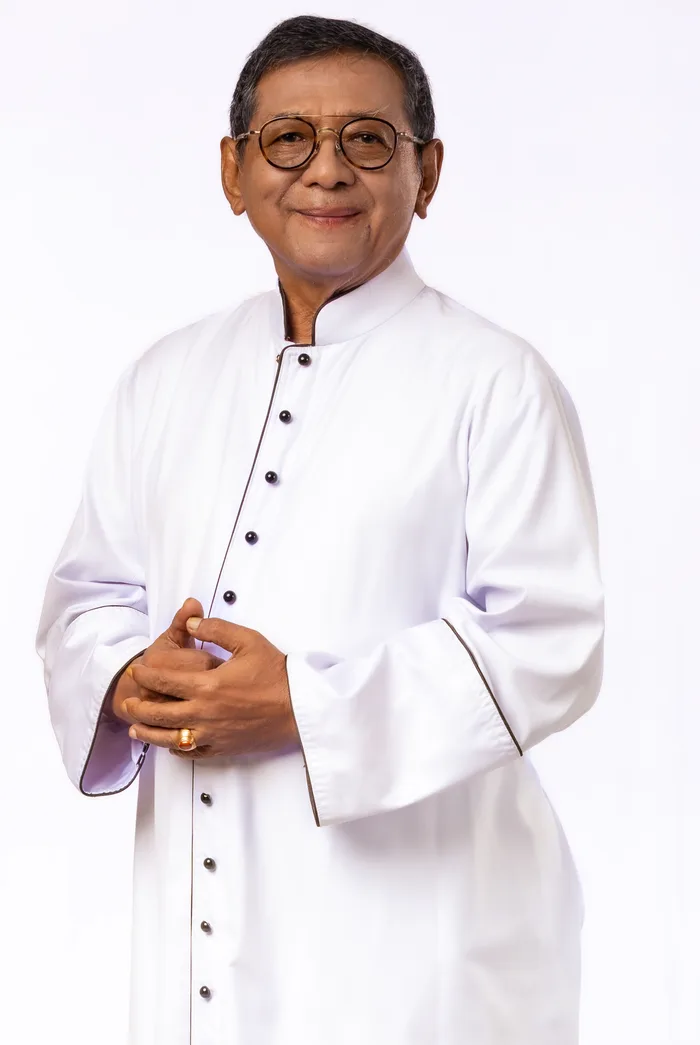
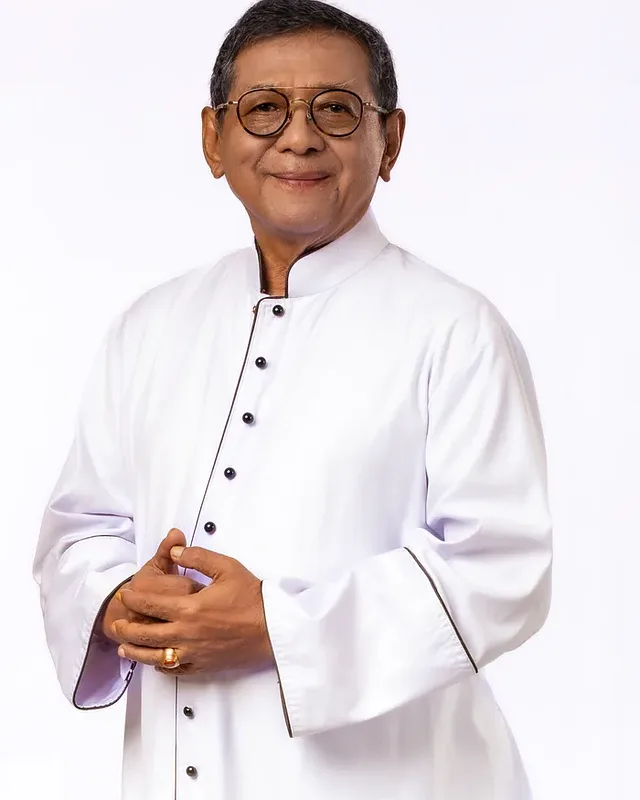
feat(undangan): priest biodata, ayat suci, altar hero & consistent photos
- Add Rm. Yustinus Ardianto biodata & photo
- Add ayat suci (Matius 10:8) after the ribbon, before the invitation
- Fix ribbon motto spelling: Intimeor -> Intimior
- Crop hero to focus on the altar/crucifix instead of the pews
- Replace Romo Yos Bintoro photo; add Mgr. Suharyo & Pak Sonny photos
- Normalize all Romo photos to a fixed 4:5 frame so each is shown at the
  same scale (no priest appears larger than the others)

Changed region(s): [[0.0312, 0.0, 0.875, 1.0], [0.1875, 0.3125, 0.25, 0.4062]]

diff --git a/src/app/(frontend)/undangan/page.tsx b/src/app/(frontend)/undangan/page.tsx
@@ -28,7 +28,6 @@ type Romo = {
   name: string
   date: string
   photo: string
-  objectPosition: string
   birth: string
   parents: string
   career: [string, string][]
@@ -41,7 +40,6 @@ const romos: Romo[] = [
     name: 'Romo Thomas Aquino Rochadi Widagdo, Pr',
     date: '15 Agustus 1986',
     photo: '/romo/thomas-rochadi.webp',
-    objectPosition: 'center 20%',
     birth: 'Kalimundu, Bantul — 15 Mei 1958',
     parents: 'Raden Sebastianus Brotosudibyo & Roro Sebastiana Siti Rochialun',
     career: [
@@ -60,8 +58,7 @@ const romos: Romo[] = [
     years: 40,
     name: 'Romo Yohanes Purbo Tamtomo, Pr',
     date: '15 Agustus 1986',
-    photo: '/romo/yohanes-purbo.jpeg',
-    objectPosition: '68% 18%',
+    photo: '/romo/yohanes-purbo.webp',
     birth: 'Yogyakarta, 1959',
     parents: 'JS Hadisuprapto & Maria Norbentin Praptini',
     career: [
@@ -75,8 +72,7 @@ const romos: Romo[] = [
     years: 30,
     name: 'Romo Aloysius Susilo Wijoyo, Pr',
     date: '15 Agustus 1996',
-    photo: '/romo/aloysius-susilo.jpeg',
-    objectPosition: 'center 25%',
+    photo: '/romo/aloysius-susilo.webp',
     birth: 'Yogyakarta, 11 Februari 1968',
     parents: 'Blasius Supardi KA & Christina Sijam',
     career: [
@@ -93,8 +89,7 @@ const romos: Romo[] = [
     years: 30,
     name: 'Romo Yos Bintoro, Pr',
     date: '15 Agustus 1996',
-    photo: '/romo/yos-bintoro.jpeg',
-    objectPosition: 'center 30%',
+    photo: '/romo/yos-bintoro.webp',
     birth: 'Jakarta, 30 November 1967',
     parents:
       'Kanjeng Raden Tumenggung Rafael Ignatius Martokusumo, SE & Raden Ayu Maria Dolores Mursyanti Suryo Mursandi',
@@ -123,11 +118,22 @@ const romos: Romo[] = [
     years: 25,
     name: 'Romo Yustinus Ardianto, Pr',
     date: '15 Agustus 2001',
-    photo: '',
-    objectPosition: 'center',
-    birth: '',
-    parents: '',
-    career: [],
+    photo: '/romo/yustinus-ardianto.webp',
+    birth: 'Jakarta, 9 Mei 1974',
+    parents: 'Yohanes Doemeri & Maria Laurensia Suwarsiatun',
+    career: [
+      [
+        '2001',
+        'Ditahbiskan menjadi Imam pada 15 Agustus 2001 di Paroki Hati Santa Perawan Maria Tak Bernoda, Tangerang',
+      ],
+      [
+        '2001–2009',
+        'Ketua Komisi KomSos KAK; tinggal di Paroki Bojong Indah dan Paroki Jalan Malang',
+      ],
+      ['2009–2012', 'Studi di Ateneo de Manila University, Filipina'],
+      ['2012–2017', 'Pastor Paroki Kalvari, Lubang Buaya'],
+      ['2017–sekarang', 'Direktur Pusat Pastoral Samadi'],
+    ],
   },
 ]
 
@@ -216,8 +222,24 @@ export default function UndanganPage() {
       >
         {/* Ribbon (motto) */}
         <div className="relative">
-          <Ribbon lightText="Deus Intimeor Intimo Meo" darkText="Deus Intimeor Intimo Tuo" />
+          <Ribbon lightText="Deus Intimior Intimo Meo" darkText="Deus Intimior Intimo Tuo" />
         </div>
+
+        {/* ===== Ayat Suci ===== */}
+        <section className="px-6 md:px-8 pt-10 md:pt-16">
+          <Reveal variant="scale" className="max-w-3xl mx-auto text-center">
+            <p
+              className={`${display.className} text-xl md:text-2xl lg:text-3xl italic text-slate-700 leading-relaxed`}
+            >
+              &ldquo;Sembuhkanlah orang sakit; bangkitkanlah orang mati; tahirkanlah orang kusta;
+              usirlah setan-setan. Kamu telah memperolehnya dengan cuma-cuma, karena itu berikanlah
+              pula dengan cuma-cuma.&rdquo;
+            </p>
+            <p className="mt-5 text-sm md:text-base font-semibold uppercase tracking-widest text-sky-600">
+              Matius 10:8
+            </p>
+          </Reveal>
+        </section>
 
         {/* ===== Invitation body ===== */}
         <section className="px-4 md:px-8 lg:px-12 pt-10 md:pt-16 pb-16">
@@ -261,7 +283,7 @@ export default function UndanganPage() {
               </p>
 
               <Reveal variant="scale" delay={120} className="mt-8 flex flex-col items-center">
-                <PhotoAvatar alt="Mgr. Ignatius Kardinal Suharyo, Pr" />
+                <PhotoAvatar photo="/romo/suharyo.webp" alt="Mgr. Ignatius Kardinal Suharyo, Pr" />
                 <h4 className="mt-5 text-xl md:text-2xl font-semibold text-slate-800">
                   Mgr. Ignatius Kardinal Suharyo, Pr
                 </h4>
@@ -290,18 +312,17 @@ export default function UndanganPage() {
                   variant={i % 2 === 0 ? 'left' : 'right'}
                   className="bg-white rounded-2xl shadow-sm border border-slate-100 overflow-hidden flex flex-col sm:flex-row"
                 >
-                  {/* Photo */}
-                  <div className="sm:w-56 md:w-64 flex-shrink-0 bg-sky-50">
+                  {/* Photo — fixed 4:5 frame so every Romo is shown at the same scale */}
+                  <div className="sm:w-56 md:w-64 flex-shrink-0 bg-sky-50 sm:self-start">
                     {r.photo ? (
                       // eslint-disable-next-line @next/next/no-img-element
                       <img
                         src={r.photo}
                         alt={r.name}
-                        className="w-full h-72 sm:h-full object-cover"
-                        style={{ objectPosition: r.objectPosition }}
+                        className="w-full aspect-[4/5] object-cover object-top"
                       />
                     ) : (
-                      <div className="w-full h-72 sm:h-full flex items-center justify-center text-sky-300">
+                      <div className="w-full aspect-[4/5] flex items-center justify-center text-sky-300">
                         <FaUser size={56} />
                       </div>
                     )}
@@ -489,7 +510,7 @@ export default function UndanganPage() {
                 <p className="text-sm text-slate-500">Pastor Kepala Paroki Villa Melati Mas</p>
               </Reveal>
               <Reveal variant="right" delay={120} className="flex flex-col items-center">
-                <PhotoAvatar alt="Sonny Aloysius Sumendap" size="sm" />
+                <PhotoAvatar photo="/romo/sonny.webp" alt="Sonny Aloysius Sumendap" size="sm" />
                 <h4 className="mt-4 font-semibold text-slate-800">Sonny Aloysius Sumendap</h4>
                 <p className="text-sm text-slate-500">Ketua Panitia Peringatan 40 Tahun Imamat</p>
               </Reveal>